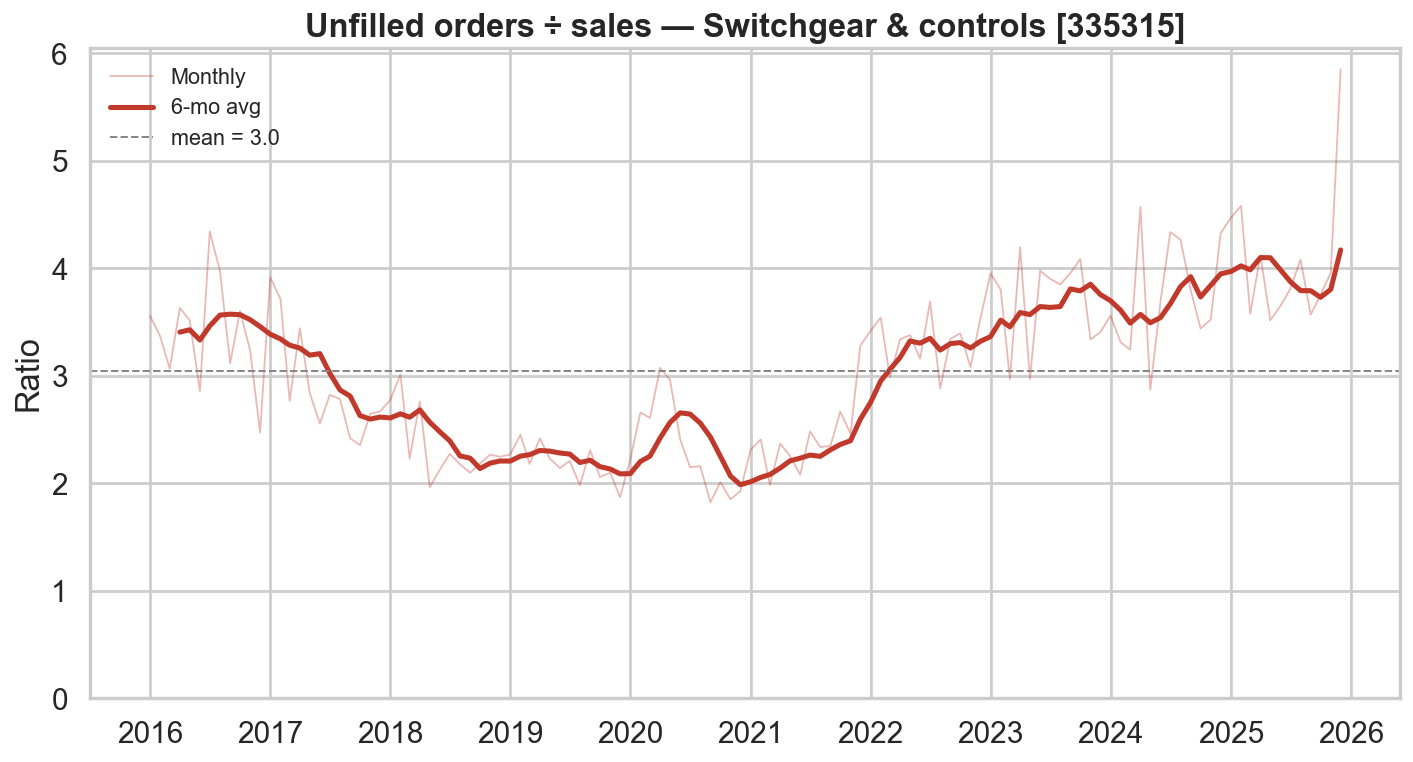
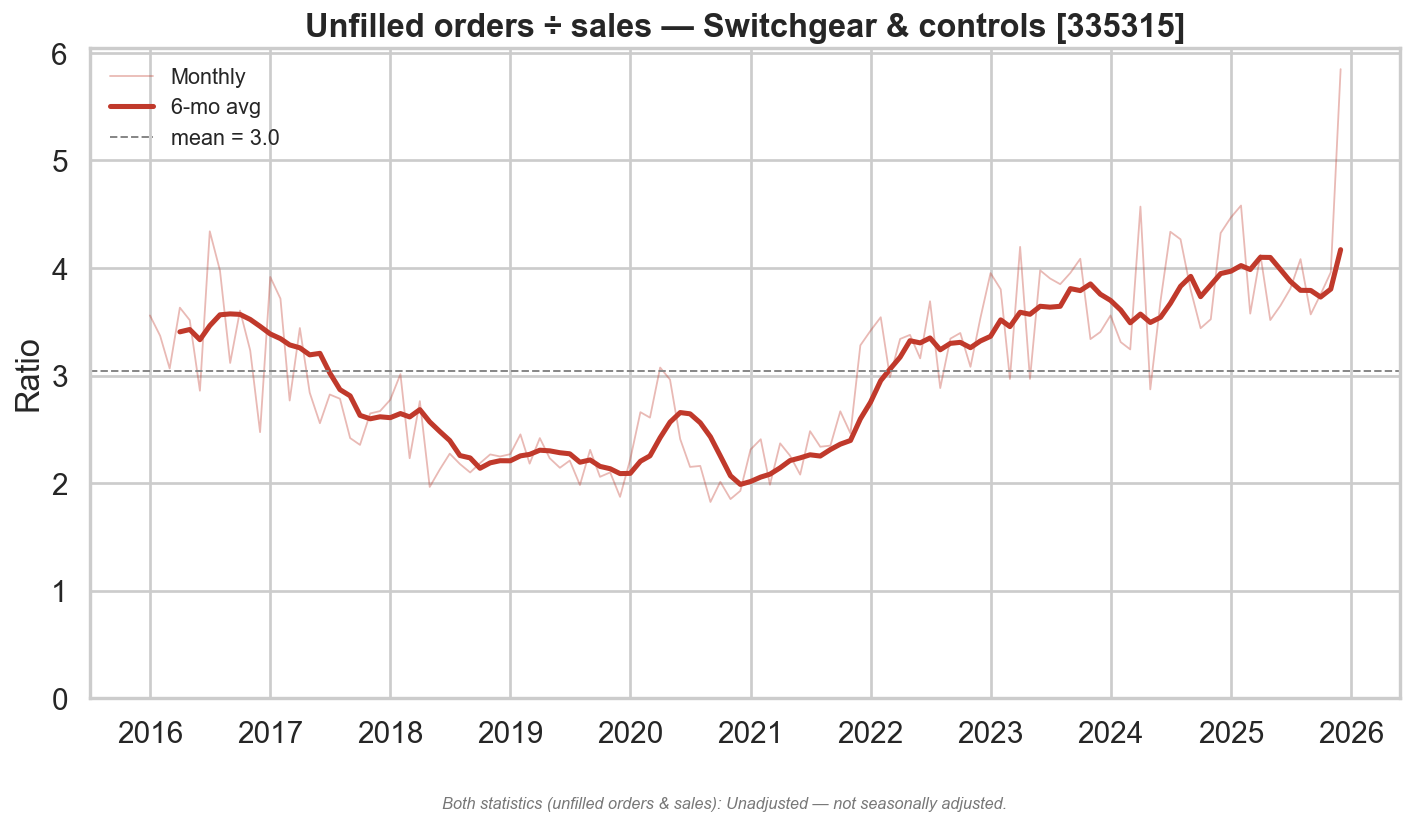
Manufacturing charts: add NAICS 335 ratio, spell out "manufacturing", note adjustment basis
- New 07b chart: unfilled-orders ÷ sales for the 335 sector rollup
  (unadjusted basis, to match the existing 3353 chart)
- 3353 title: "mfg" -> "manufacturing"
- Every chart now carries a small-font footnote naming the statistics
  used and stating they are Unadjusted (not seasonally adjusted)

diff --git a/analyze_manufacturing.py b/analyze_manufacturing.py
@@ -72,6 +72,11 @@ def millions_fmt(ax):
     ax.yaxis.set_major_formatter(mticker.FuncFormatter(lambda v, _: f"${v:,.0f}M"))
 
 
+def adj_note(fig, text):
+    """Small-font footnote stating the seasonal-adjustment basis of the series."""
+    fig.text(0.5, -0.02, text, ha="center", fontsize=9, style="italic", color="#777")
+
+
 def save(fig, name):
     path = OUT / name
     fig.savefig(path, dpi=130, bbox_inches="tight")
@@ -91,6 +96,7 @@ def chart_sales_trends(df):
     ax.set_ylabel("Sales per month")
     millions_fmt(ax)
     ax.legend(frameon=False, fontsize=12, loc="upper left")
+    adj_note(fig, "Sales (shipments) series: Unadjusted — not seasonally adjusted.")
     save(fig, "01_sales_trends.png")
 
 
@@ -106,6 +112,7 @@ def chart_sales_indexed(df):
     ax.set_title("Sales growth indexed to 2016 average = 100", fontweight="bold")
     ax.set_ylabel("Index (2016 = 100)")
     ax.legend(frameon=False, fontsize=12, loc="upper left")
+    adj_note(fig, "Sales (shipments) series: Unadjusted — not seasonally adjusted.")
     save(fig, "02_sales_indexed.png")
 
 
@@ -129,8 +136,8 @@ def chart_inventory_components(df):
     axes[0].set_ylabel("Inventory value (end of month)")
     axes[0].legend(frameon=False, fontsize=11, loc="upper left")
     fig.suptitle("Inventories by stage — priority electrical industries", fontweight="bold", y=1.02)
-    fig.text(0.5, -0.02, "Suppressed months linearly interpolated between available values; Wire & cable has the most gaps.",
-             ha="center", fontsize=11, style="italic", color="#666")
+    adj_note(fig, "Inventory series (raw materials, work in process, finished goods): Unadjusted — not seasonally adjusted. "
+                  "Suppressed months linearly interpolated between available values; Wire & cable has the most gaps.")
     save(fig, "03_inventory_components.png")
 
 
@@ -149,6 +156,7 @@ def chart_orders(df):
     ax2.set_title("Unfilled orders — backlog at end of month", fontweight="bold")
     ax2.set_ylabel("Value")
     millions_fmt(ax2)
+    adj_note(fig, "Both statistics (new orders & unfilled orders): Unadjusted — not seasonally adjusted.")
     save(fig, "04_orders.png")
 
 
@@ -163,6 +171,7 @@ def chart_inv_sales_ratio(df):
     ax.set_title("Inventory-to-sales ratio (total inventory ÷ monthly sales)", fontweight="bold")
     ax.set_ylabel("Ratio")
     ax.legend(frameon=False, fontsize=12, loc="upper left")
+    adj_note(fig, "Both statistics (total inventory & sales): Unadjusted — not seasonally adjusted.")
     save(fig, "05_inventory_to_sales_ratio.png")
 
 
@@ -188,12 +197,13 @@ def chart_unfilled_to_sales(df):
             ax.text(0.99, 0.02, f"backlog data ends {valid.index.max():%Y-%m}",
                     transform=ax.transAxes, ha="right", fontsize=10,
                     style="italic", color="#666")
+        adj_note(fig, "Both statistics (unfilled orders & sales): Unadjusted — not seasonally adjusted.")
         save(fig, f"06_unfilled_to_sales_{code}.png")
 
 
 # -------- 7. Unfilled-to-sales ratio for the parent group NAICS 3353 (rollup)
 def chart_ratio_3353(df):
-    code, label, color = "3353", "Electrical equipment mfg", "#6a4c93"
+    code, label, color = "3353", "Electrical equipment manufacturing", "#6a4c93"
     unf = series(df, UNFILLED, code)
     sales = series(df, SHIPMENTS, code)
     ratio = unf / sales
@@ -207,7 +217,31 @@ def chart_ratio_3353(df):
     ax.set_ylabel("Ratio")
     ax.set_ylim(bottom=0)
     ax.legend(frameon=False, fontsize=12, loc="upper left")
+    adj_note(fig, "Both statistics (unfilled orders & sales): Unadjusted — not seasonally adjusted.")
     save(fig, "07_unfilled_to_sales_3353.png")
+
+
+# -------- 7b. Unfilled-to-sales ratio for the sector NAICS 335 (rollup)
+def chart_ratio_335(df):
+    code, label, color = "335", "Electrical equipment, appliance & component manufacturing", "#6a4c93"
+    # 335 carries both adjusted and unadjusted series; match 3353's unadjusted basis
+    df = df[df["Seasonal adjustment"] == "Unadjusted"]
+    unf = series(df, UNFILLED, code)
+    sales = series(df, SHIPMENTS, code)
+    ratio = unf / sales
+    roll = ratio.rolling(6, min_periods=4).mean()
+    fig, ax = plt.subplots(figsize=(13, 6.5))
+    ax.plot(ratio.index, ratio.values, color=color, lw=1.0, alpha=0.35, label="Monthly")
+    ax.plot(roll.index, roll.values, color=color, lw=2.8, label="6-mo avg")
+    valid = ratio.dropna()
+    ax.axhline(valid.mean(), ls="--", lw=1.1, color="#888", label=f"mean = {valid.mean():.1f}")
+    ax.set_title(f"Unfilled orders ÷ sales — {label} [{code}]", fontweight="bold")
+    ax.set_ylabel("Ratio")
+    ax.set_ylim(bottom=0)
+    ax.legend(frameon=False, fontsize=12, loc="upper left")
+    adj_note(fig, "Both statistics (unfilled orders & sales): Unadjusted — not seasonally adjusted. "
+                  "(335 also publishes a seasonally adjusted series; unadjusted shown to match the 3353 chart.)")
+    save(fig, "07b_unfilled_to_sales_335.png")
 
 
 def main():
@@ -219,6 +253,7 @@ def main():
     chart_inv_sales_ratio(df)
     chart_unfilled_to_sales(df)
     chart_ratio_3353(df)
+    chart_ratio_335(df)
     print(f"\nAll charts written to {OUT}")
 
 
